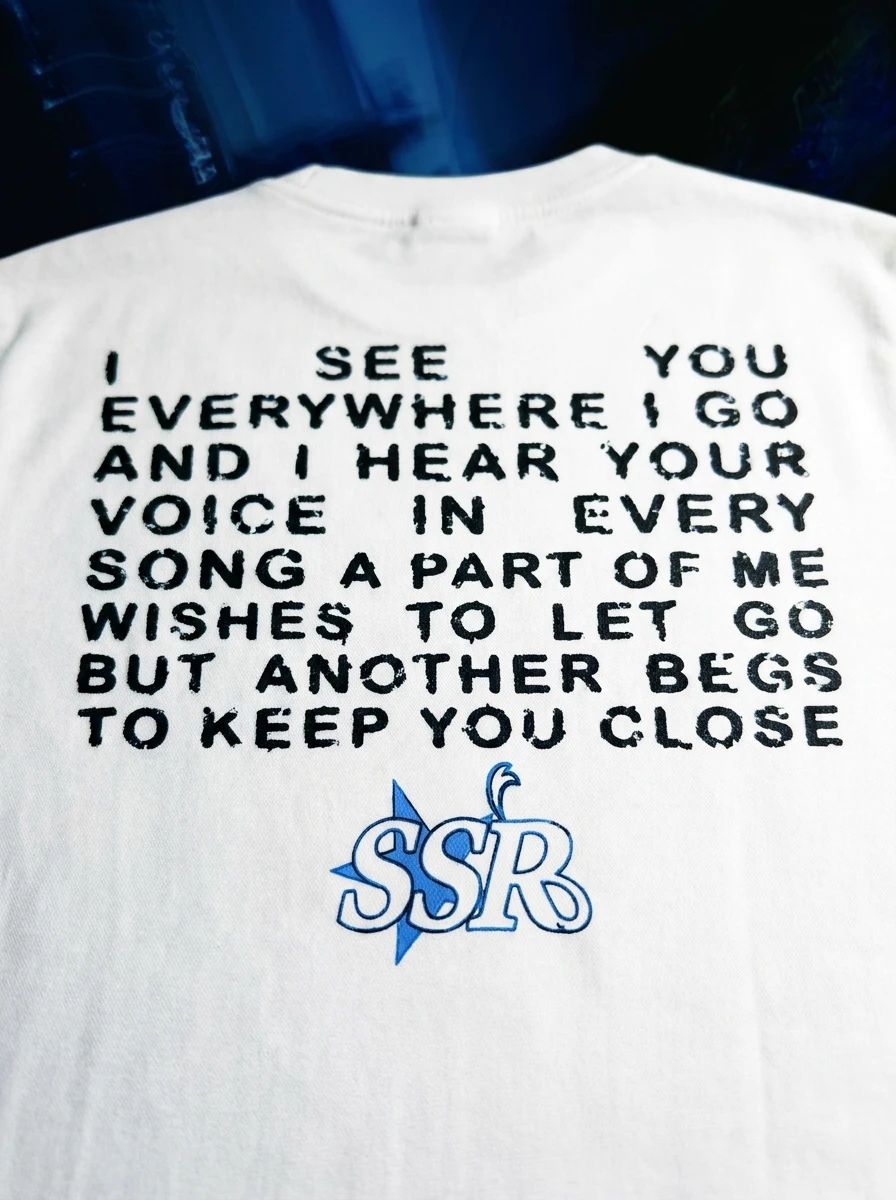
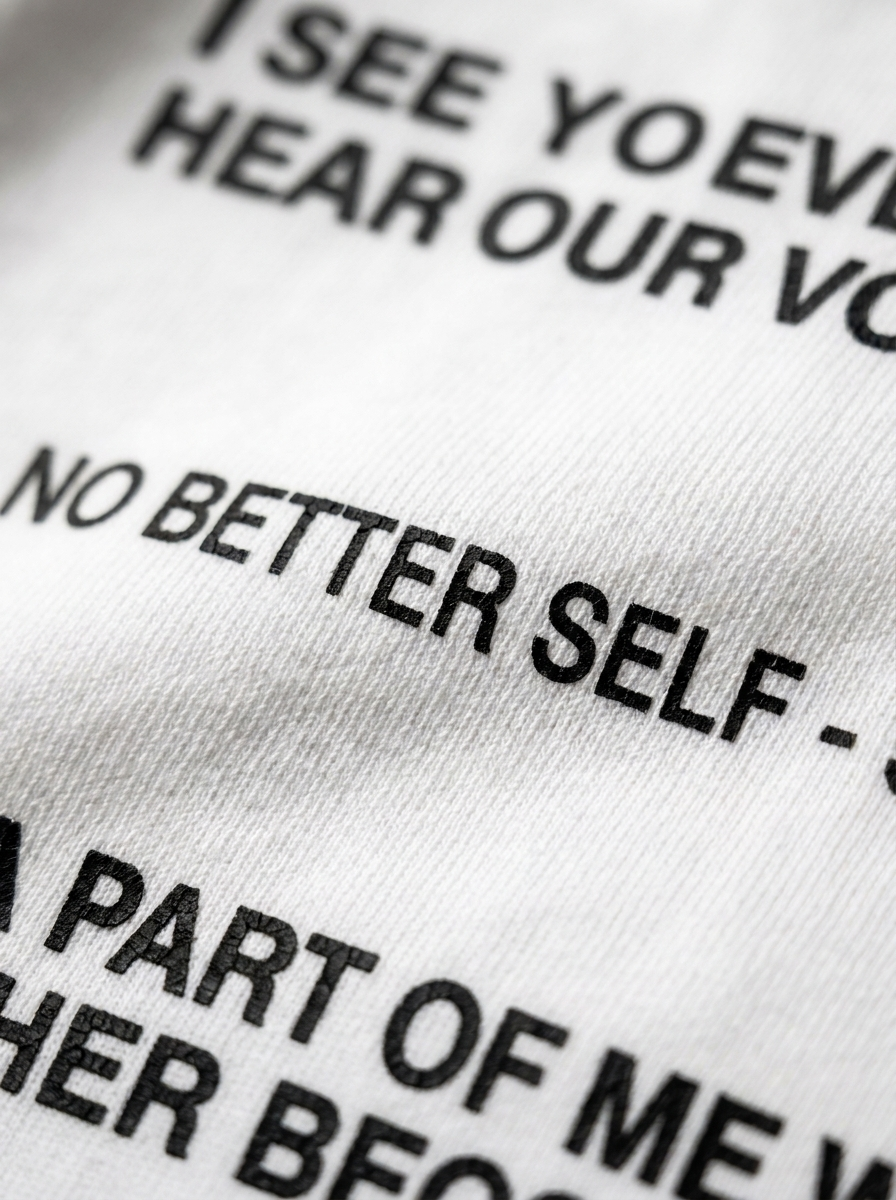
Convert merch images to WebP format and update paths

diff --git a/src/data/merch.js b/src/data/merch.js
@@ -4,7 +4,7 @@ export const MERCH = [
     id: 'kaos-cover-hitam',
     name: 'SSR SUPREMACY - Now I See You, Now I Don\'t (white)',
     price: 'Rp 180.000',
-    img: '/rabbitwhite/kaosputih.jpeg',
+    img: '/rabbitwhite/kaosputih.webp',
     type: 'Apparel',
     soldOut: false,
     description: 'SSR SUPREMACY - Now I See You, Now I Don\'t (white)\n\nIntroducing our new maxi - single "Now I See You, Now I Don\'t". we celebrate with newest article from SSR SUPREMACY designed by Jayiesm.\n\n✓ Size: S - XXL Product\n✓ T-Shirt Color: Black and White\n✓ Fabric: Stitch Supply 16s Cotton\n✓ Graphic: Plastisol High-quality Sablon Print',
@@ -19,59 +19,59 @@ export const MERCH = [
       id: 'key-chain',
       name: 'SSR SUPREMACY Keychain',
       price: 'Rp 45.000',
-      img: '/keychain/keychain.jpeg',
+      img: '/keychain/keychain.webp',
       type: 'Accessory',
       soldOut: false,
       description: 'SSR SUPREMACY Keychain\n\n✓ Clear Acrylic Material, 3mm Thickness\n✓ Guaranteed quality & waterproof\n✓ Rust-proof keyring\n✓ Free Packaging\n\nThis item contains logo from SSR',
       gallery: [
-         { label: 'Front View', img: '/keychain/keychain.jpeg' },
-         { label: 'Back View', img: '/keychain/detailkeychain.jpeg' },
-         { label: 'Detail View', img: '/keychain/detailkeychain2.jpeg' },
+         { label: 'Front View', img: '/keychain/keychain.webp' },
+         { label: 'Back View', img: '/keychain/detailkeychain.webp' },
+         { label: 'Detail View', img: '/keychain/detailkeychain2.webp' },
       ],
     },
   {
     id: 'cassette-tape',
     name: 'SSR SUPREMACY - Now I See You, Now I Don\'t (black)',
     price: 'Rp 180.000',
-    img: '/black rabbit ssr/kaoshitam.jpeg',
+    img: '/black rabbit ssr/kaoshitam.webp',
     type: 'Apparel',
     soldOut: false,
     description: 'SSR SUPREMACY - Now I See You, Now I Don\'t (black)\n\nIntroducing our new maxi - single "Now I See You, Now I Don\'t". we celebrate with newest article from SSR SUPREMACY designed by Jayiesm.\n\n✓ Size: S - XXL Product\n✓ T-Shirt Color: Black and White\n✓ Fabric: Stitch Supply 16s Cotton\n✓ Graphic: Plastisol High-quality Sablon Print',
     sizes: ['S', 'M', 'L', 'XL', 'XXL'],
     gallery: [
-      { label: 'Front View', img: '/black rabbit ssr/frontview.jpeg' },
-      { label: 'Back View', img: '/black rabbit ssr/backview.jpeg' },
-      { label: 'Detail View', img: '/black rabbit ssr/detailview.jpeg' },
+      { label: 'Front View', img: '/black rabbit ssr/frontview.webp' },
+      { label: 'Back View', img: '/black rabbit ssr/backview.webp' },
+      { label: 'Detail View', img: '/black rabbit ssr/detailview.webp' },
     ],
   },
   {
     id: 'kaos-artwork-putih',
     name: 'SSR SUPREMACY X A Prapto - Eat That Shit (White)',
     price: 'Rp 180.000',
-    img: '/whitefuzzymonster/detail1.jpeg',
+    img: '/whitefuzzymonster/detail1.webp',
     type: 'Apparel',
     soldOut: false,
     description: 'SSR SUPREMACY X A Prapto - Eat That Shit (White)\n\nAn exclusive, limited-edition t-shirt in collaboration with a prapto "Eat That Shit"\n\n✓ T-Shirt Color: Black & White\n✓ Fabric: Stitch Supply 16s\n✓ Cotton Graphic: High Quality Print Plastisol',
     sizes: ['S', 'M', 'L', 'XL', 'XXL'],
     gallery: [
-      { label: 'Front View', img: '/whitefuzzymonster/detail1.jpeg' },
-      { label: 'Back View', img: '/whitefuzzymonster/detail2.jpeg' },
-      { label: 'Detail View', img: '/whitefuzzymonster/detail3.jpeg' },
+      { label: 'Front View', img: '/whitefuzzymonster/detail1.webp' },
+      { label: 'Back View', img: '/whitefuzzymonster/detail2.webp' },
+      { label: 'Detail View', img: '/whitefuzzymonster/detail3.webp' },
     ],
   },
   {
     id: 'kaos-artwork-hitam',
     name: 'SSR SUPREMACY X A Prapto - Eat That Shit (Black)',
     price: 'Rp 180.000',
-    img: '/blackfuzzymonster/blackfuzzymonster.jpeg',
+    img: '/blackfuzzymonster/blackfuzzymonster.webp',
     type: 'Apparel',
     soldOut: false,
     description: 'SSR SUPREMACY X A Prapto - Eat That Shit (Black)\n\nAn exclusive, limited-edition t-shirt in collaboration with a prapto "Eat That Shit"\n\n✓ T-Shirt Color: Black & White\n✓ Fabric: Stitch Supply 16s\n✓ Cotton Graphic: High Quality Print Plastisol',
     sizes: ['S', 'M', 'L', 'XL', 'XXL'],
     gallery: [
-      { label: 'Front View', img: '/blackfuzzymonster/blackfuzzymonster.jpeg' },
-      { label: 'Back View', img: '/blackfuzzymonster/detail1.jpeg' },
-      { label: 'Detail View', img: '/blackfuzzymonster/detail2.jpeg' },
+      { label: 'Front View', img: '/blackfuzzymonster/blackfuzzymonster.webp' },
+      { label: 'Back View', img: '/blackfuzzymonster/detail1.webp' },
+      { label: 'Detail View', img: '/blackfuzzymonster/detail2.webp' },
     ],
   },
 ]